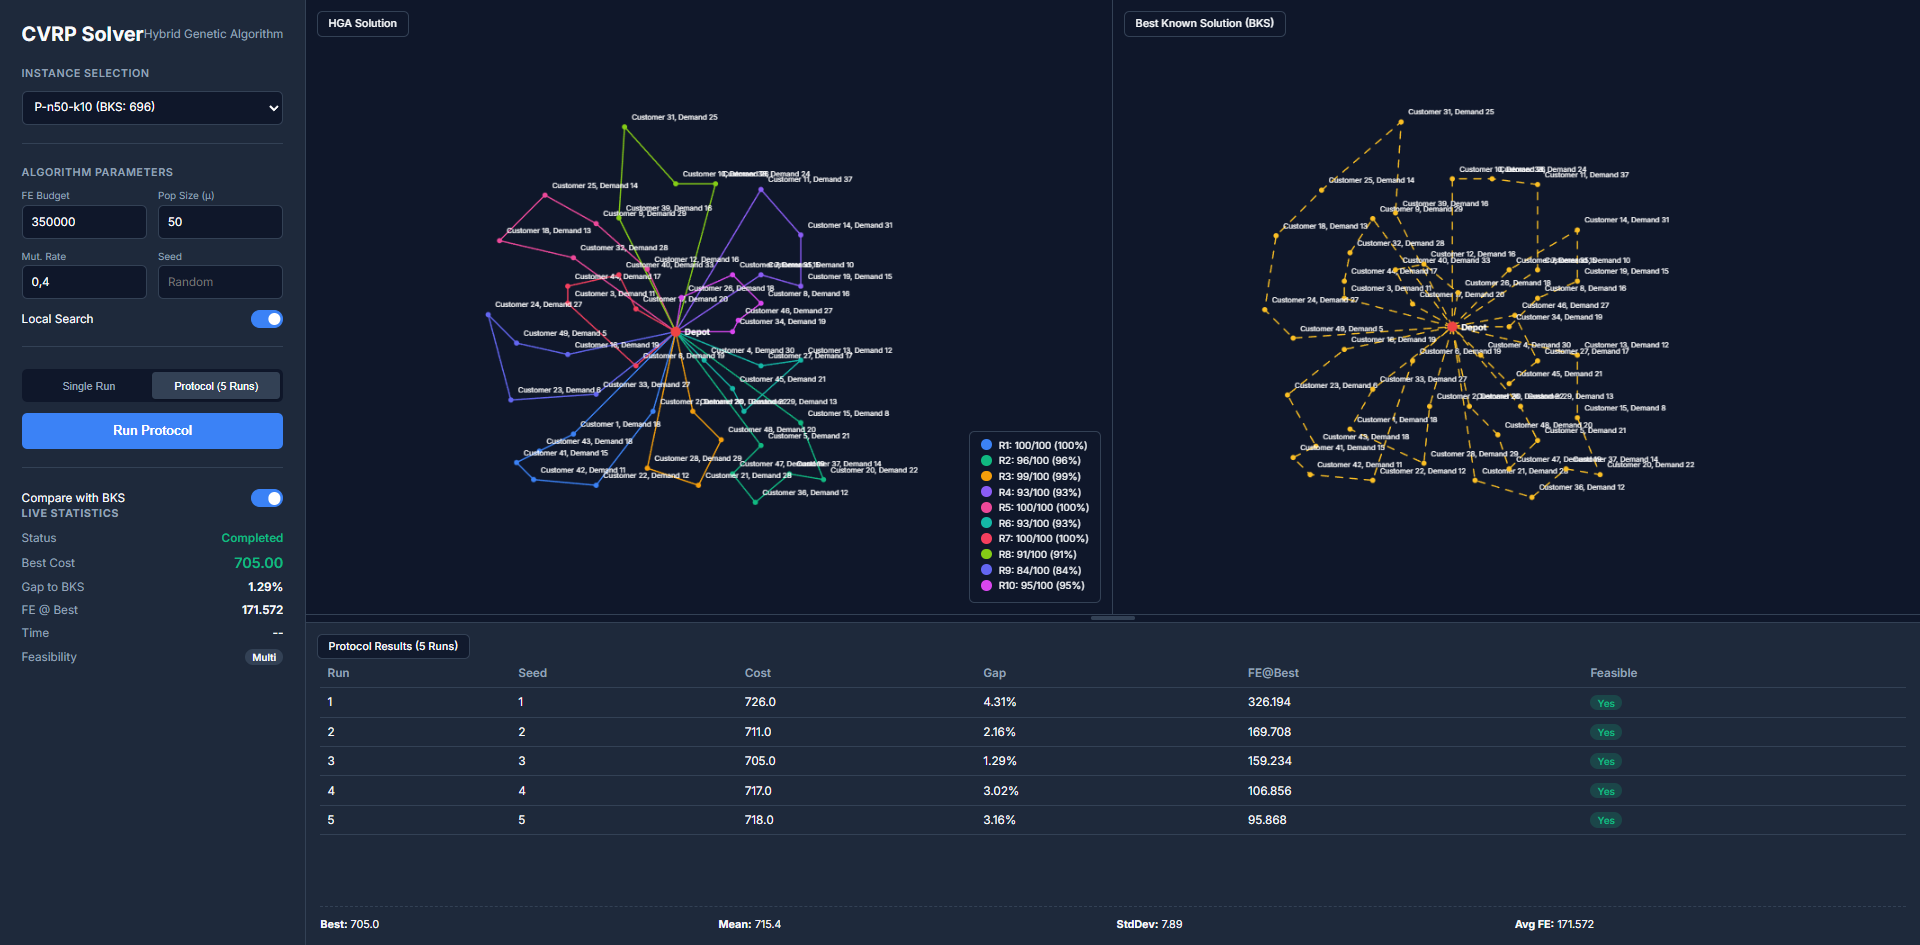
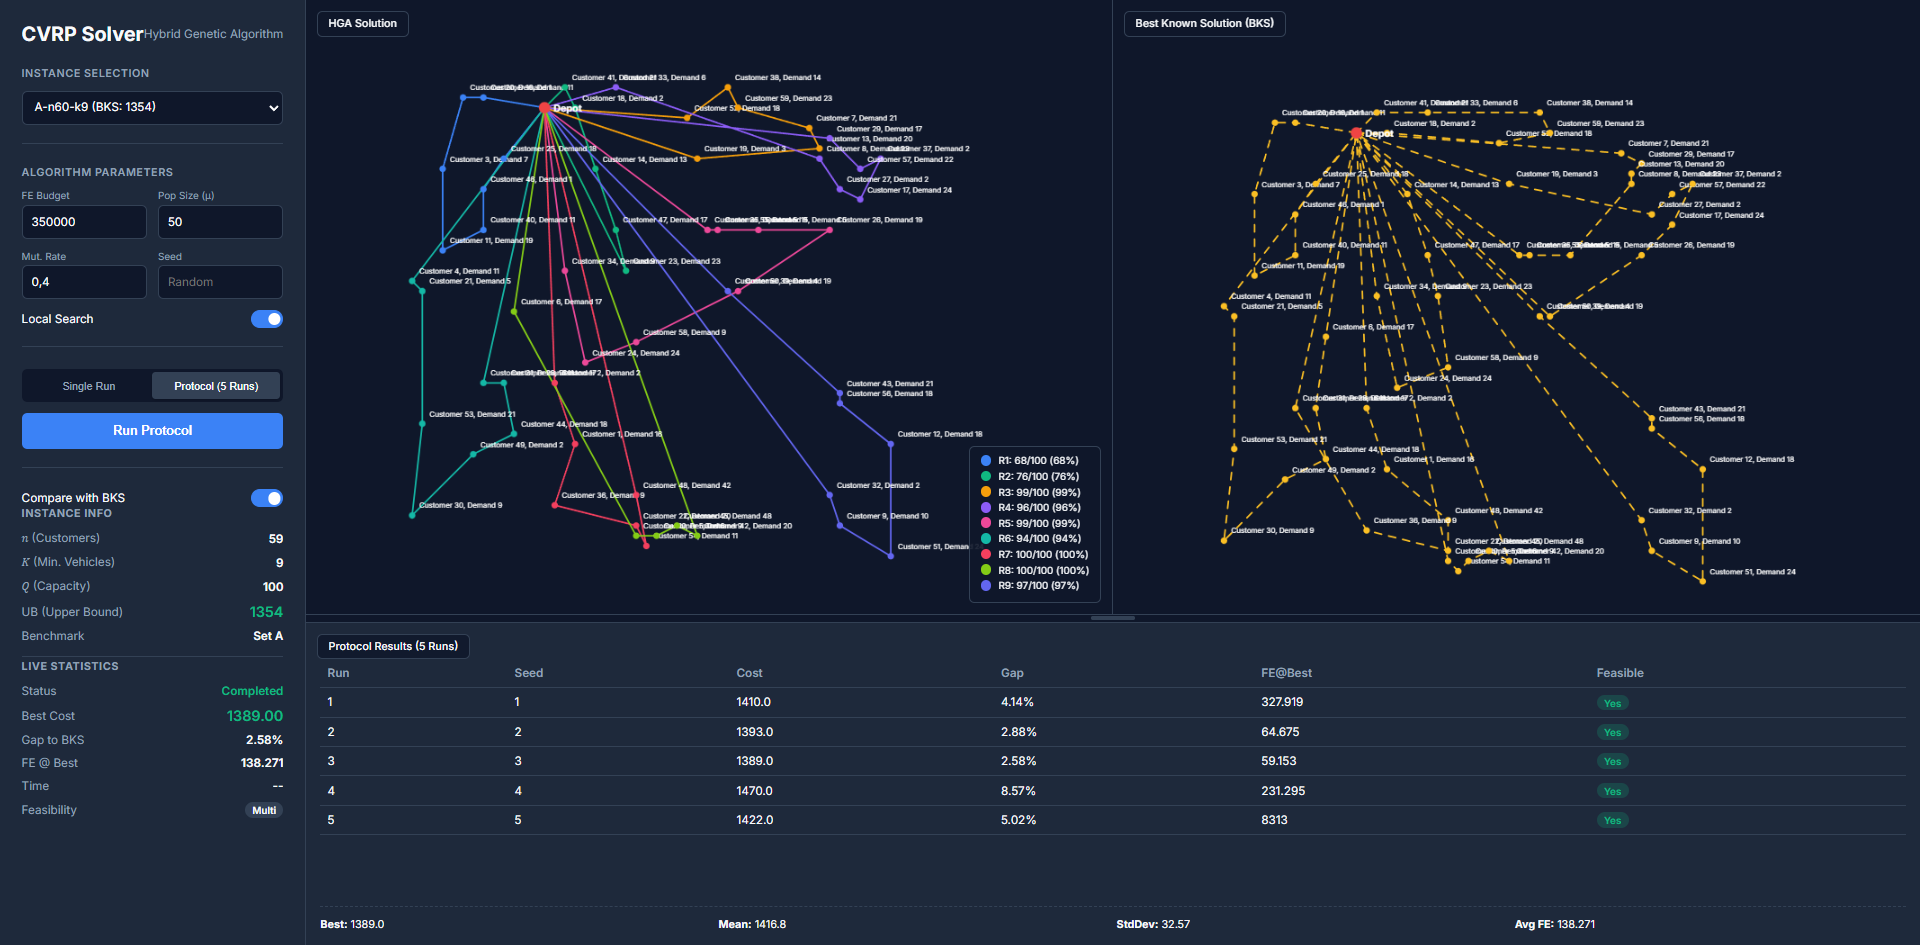
feat(gui): add detailed instance info panel to sidebar
- Extended the InstanceInfo Pydantic model in web_app.py to include 'bks' (Upper Bound) and 'benchmark_set'.
- Added a new 'Instance Info' section in index.html above Live Statistics to display number of customers, minimum vehicles, capacity, upper bound, and benchmark set.
- Updated app_v7.js to parse and populate the new instance info fields upon API response.
- Styled the new panel in style.css with a subtle bottom border for visual separation.
- Updated preview image CVRP_SolverGUI.png.

diff --git a/static/index.html b/static/index.html
@@ -74,6 +74,30 @@
                 </label>
             </div>
 
+            <div class="stats-panel instance-info-panel" id="instance-info-panel">
+                <h2>Instance Info</h2>
+                <div class="stat-item">
+                    <span class="stat-label">𝑛 (Customers)</span>
+                    <span class="stat-value" id="info-customers">--</span>
+                </div>
+                <div class="stat-item">
+                    <span class="stat-label">𝐾 (Min. Vehicles)</span>
+                    <span class="stat-value" id="info-vehicles">--</span>
+                </div>
+                <div class="stat-item">
+                    <span class="stat-label">𝑄 (Capacity)</span>
+                    <span class="stat-value" id="info-capacity">--</span>
+                </div>
+                <div class="stat-item">
+                    <span class="stat-label">UB (Upper Bound)</span>
+                    <span class="stat-value highlight" id="info-ub">--</span>
+                </div>
+                <div class="stat-item">
+                    <span class="stat-label">Benchmark</span>
+                    <span class="stat-value" id="info-benchmark">--</span>
+                </div>
+            </div>
+
             <div class="stats-panel">
                 <h2>Live Statistics</h2>
                 <div class="stat-item">

diff --git a/static/app_v7.js b/static/app_v7.js
@@ -20,6 +20,13 @@ document.addEventListener('DOMContentLoaded', () => {
     const statTime = document.getElementById('stat-time');
     const statFeasibility = document.getElementById('stat-feasibility');
 
+    // Instance Info fields
+    const infoCustomers  = document.getElementById('info-customers');
+    const infoVehicles   = document.getElementById('info-vehicles');
+    const infoCapacity   = document.getElementById('info-capacity');
+    const infoUb         = document.getElementById('info-ub');
+    const infoBenchmark  = document.getElementById('info-benchmark');
+
     // Panels
     const convergencePanel = document.getElementById('convergence-panel');
     const protocolPanel = document.getElementById('protocol-panel');
@@ -213,6 +220,7 @@ document.addEventListener('DOMContentLoaded', () => {
             if(data.error) throw new Error(data.error);
             
             capacity = data.instance_info.capacity;
+            updateInstanceInfo(data.instance_info);
             updateStats(data.cost, data.gap, data.fes, data.execution_time_ms, data.is_feasible);
             
             currentBksRoutes = data.bks_routes;
@@ -271,6 +279,7 @@ document.addEventListener('DOMContentLoaded', () => {
             `;
             
             capacity = data.instance_info.capacity;
+            updateInstanceInfo(data.instance_info);
             currentBksRoutes = data.bks_routes;
             toggleBks.disabled = !currentBksRoutes;
             if(!currentBksRoutes) {
@@ -283,6 +292,14 @@ document.addEventListener('DOMContentLoaded', () => {
         })
         .catch(handleError)
         .finally(resetUI);
+    }
+
+    function updateInstanceInfo(info) {
+        infoCustomers.textContent = info.customers;
+        infoVehicles.textContent  = info.vehicles;
+        infoCapacity.textContent  = info.capacity;
+        infoUb.textContent        = info.bks !== null ? info.bks.toFixed(0) : 'N/A';
+        infoBenchmark.textContent = `Set ${info.benchmark_set}`;
     }
 
     function updateStats(cost, gap, fes, time, feasible) {

diff --git a/static/style.css b/static/style.css
@@ -203,6 +203,12 @@ select:focus, input[type="number"]:focus {
     margin-bottom: 12px;
 }
 
+.instance-info-panel {
+    border-bottom: 1px solid var(--border);
+    padding-bottom: 4px;
+    margin-bottom: 4px;
+}
+
 .stat-item {
     display: flex;
     justify-content: space-between;

diff --git a/web_app.py b/web_app.py
@@ -87,6 +87,8 @@ class InstanceInfo(BaseModel):
     customers: int
     vehicles: int
     capacity: int
+    bks: float | None
+    benchmark_set: str
 
 class ProtocolResponse(BaseModel):
     best_cost: float
@@ -220,7 +222,9 @@ def solve_instance(instance_name: str, req: SolveRequest):
         instance_info=InstanceInfo(
             customers=instance.dimension - 1,
             vehicles=int(instance.name.split("-k")[-1]),
-            capacity=instance.capacity
+            capacity=instance.capacity,
+            bks=get_bks(instance_path),
+            benchmark_set=instance.name[0].upper()
         ),
         convergence_log=tracker.convergence_log,
         customers_served=best_solution.num_visited,
@@ -330,7 +334,9 @@ def solve_protocol(instance_name: str, req: SolveRequest):
         instance_info=InstanceInfo(
             customers=instance.dimension - 1,
             vehicles=int(instance.name.split("-k")[-1]),
-            capacity=instance.capacity
+            capacity=instance.capacity,
+            bks=bks,
+            benchmark_set=instance.name[0].upper()
         )
     )
 